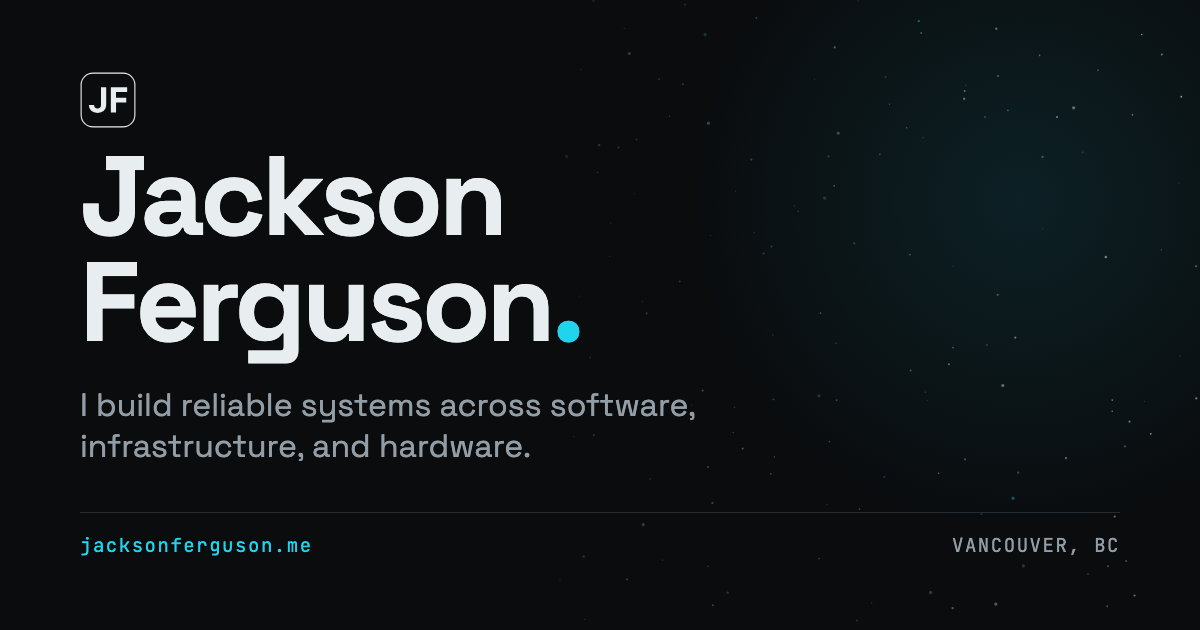
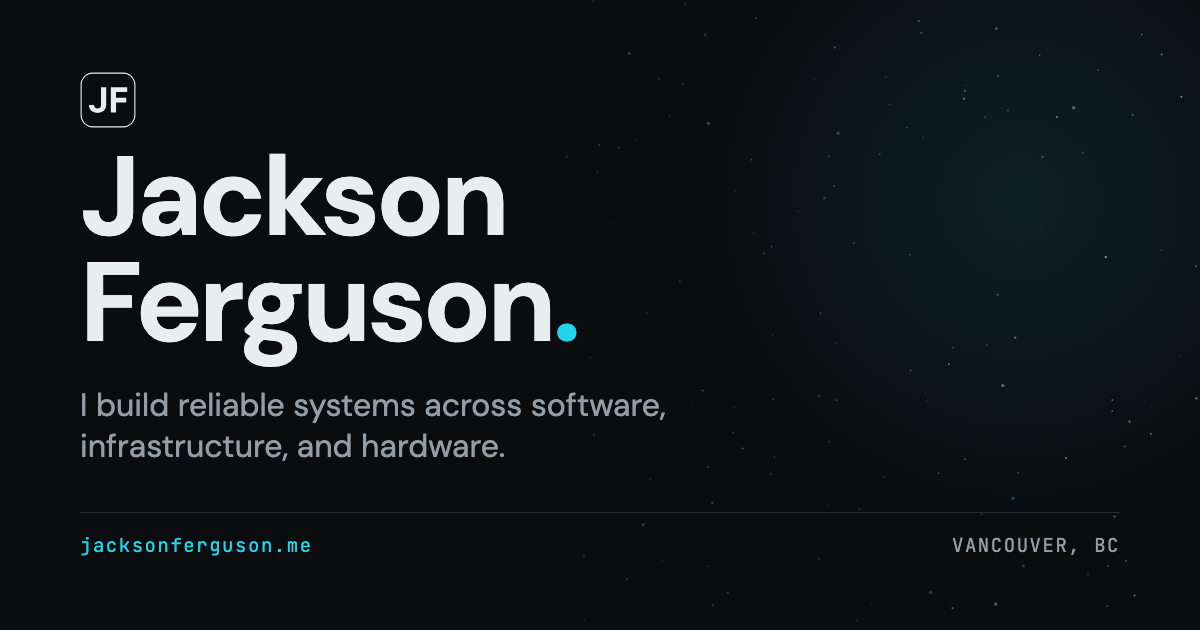
feat(site): refresh portfolio content and demo
Update the Protostar recording source, typography, and social card.

Refine trip labels, demo loading, and project chart loading.

diff --git a/src/styles/global.css b/src/styles/global.css
@@ -31,8 +31,8 @@
   --muted: #939da6;
   --accent: #22d3ee;
   --line: #252c31;
-  --sans: 'Space Grotesk', sans-serif;
-  --mono: 'JetBrains Mono', 'Symbols Nerd Font', monospace;
+  --sans: 'DM Sans', sans-serif;
+  --mono: 'JetBrains Mono', monospace;
   --serif: 'New Computer Modern', 'Georgia', serif;
   --md-default-fg-color: #81929b;
   --protostar-cyan: #22d3ee;

diff --git a/README.md b/README.md
@@ -16,12 +16,12 @@ The New Computer Modern regular and italic WOFF2 files in `public/fonts/` are La
 
 [config/remote-assets.json](config/remote-assets.json) is the central manifest for assets sourced from other project repositories. [scripts/fetch-remote-assets.mjs](scripts/fetch-remote-assets.mjs) downloads and validates them, then writes the copies into `public/` for Astro to include in the static site. These generated copies are git-ignored; this repository tracks the fetching process rather than snapshots that can go stale.
 
-| Asset ID                             | Source project                                                                         | Local target                                  | Validation                           |
-| ------------------------------------ | -------------------------------------------------------------------------------------- | --------------------------------------------- | ------------------------------------ |
-| `protostar-demo`                     | [Protostar](https://github.com/JacksonFergusonDev/protostar)                           | `public/protostar-demo.cast`                  | Asciinema v2 header and minimum size |
-| `protostar-icon`                     | [Protostar](https://github.com/JacksonFergusonDev/protostar)                           | `public/images/protostar.svg`                 | SVG markup and minimum size          |
-| `systems-audio-analysis`             | [Systems Audio Lab](https://github.com/JacksonFergusonDev/systems-audio-lab)           | `public/images/audio-analysis.svg`            | SVG markup and minimum size          |
-| `data-science-redshift-distribution` | [Data Science Portfolio](https://github.com/JacksonFergusonDev/data-science-portfolio) | `public/images/gmm-redshift-distribution.svg` | SVG markup and minimum size          |
+| Asset ID                             | Source project                                                                                                                      | Local target                                  | Validation                           |
+| ------------------------------------ | ----------------------------------------------------------------------------------------------------------------------------------- | --------------------------------------------- | ------------------------------------ |
+| `protostar-demo`                     | [Protostar interactive init demo](https://github.com/JacksonFergusonDev/protostar/blob/main/docs/assets/demo_init_interactive.cast) | `public/protostar-demo.cast`                  | Asciinema v2 header and minimum size |
+| `protostar-icon`                     | [Protostar](https://github.com/JacksonFergusonDev/protostar)                                                                        | `public/images/protostar.svg`                 | SVG markup and minimum size          |
+| `systems-audio-analysis`             | [Systems Audio Lab](https://github.com/JacksonFergusonDev/systems-audio-lab)                                                        | `public/images/audio-analysis.svg`            | SVG markup and minimum size          |
+| `data-science-redshift-distribution` | [Data Science Portfolio](https://github.com/JacksonFergusonDev/data-science-portfolio)                                              | `public/images/gmm-redshift-distribution.svg` | SVG markup and minimum size          |
 
 ### Why fetch at build time?
 

diff --git a/src/content/trips/semaphore-2024.md b/src/content/trips/semaphore-2024.md
@@ -4,10 +4,10 @@ title: 'Semaphore & the Sea to Sky'
 description: 'Granite walls, alpine trails, sudden snowstorms, and long days in the Sea to Sky.'
 date: 2024-08-26
 dateLabel: '2024'
-location: 'Coast Mountains, British Columbia'
+location: 'Semaphore Lakes, British Columbia'
 images:
   - src: ../../assets/trips/semaphore-2024/IMG_3562.jpg
-    alt: 'Coast Mountains alpine basin'
+    alt: 'Semaphore Lakes alpine basin'
   - src: ../../assets/trips/semaphore-2024/1.jpg
     alt: 'Snow-dusted mountains reflected in an alpine lake'
   - src: ../../assets/trips/semaphore-2024/2.jpg
@@ -17,37 +17,37 @@ images:
   - src: ../../assets/trips/semaphore-2024/4.jpg
     alt: 'A still tarn surrounded by conifers and low cloud'
   - src: ../../assets/trips/semaphore-2024/20240825_121115.jpg
-    alt: 'Coast Mountains alpine basin (6)'
+    alt: 'Semaphore Lakes alpine basin (6)'
   - src: ../../assets/trips/semaphore-2024/20240825_123832.jpg
-    alt: 'Coast Mountains alpine basin (7)'
+    alt: 'Semaphore Lakes alpine basin (7)'
   - src: ../../assets/trips/semaphore-2024/IMG_1503.jpg
-    alt: 'Coast Mountains alpine basin (8)'
+    alt: 'Semaphore Lakes alpine basin (8)'
   - src: ../../assets/trips/semaphore-2024/IMG_1567.jpg
-    alt: 'Coast Mountains alpine basin (9)'
+    alt: 'Semaphore Lakes alpine basin (9)'
   - src: ../../assets/trips/semaphore-2024/IMG_1595.jpg
-    alt: 'Coast Mountains alpine basin (10)'
+    alt: 'Semaphore Lakes alpine basin (10)'
   - src: ../../assets/trips/semaphore-2024/IMG_2755.jpg
-    alt: 'Coast Mountains alpine basin (11)'
+    alt: 'Semaphore Lakes alpine basin (11)'
   - src: ../../assets/trips/semaphore-2024/IMG_2918.jpg
-    alt: 'Coast Mountains alpine basin (12)'
+    alt: 'Semaphore Lakes alpine basin (12)'
   - src: ../../assets/trips/semaphore-2024/IMG_3032.jpg
-    alt: 'Coast Mountains alpine basin (13)'
+    alt: 'Semaphore Lakes alpine basin (13)'
   - src: ../../assets/trips/semaphore-2024/IMG_3187.jpg
-    alt: 'Coast Mountains alpine basin (14)'
+    alt: 'Semaphore Lakes alpine basin (14)'
   - src: ../../assets/trips/semaphore-2024/IMG_3190.jpg
-    alt: 'Coast Mountains alpine basin (15)'
+    alt: 'Semaphore Lakes alpine basin (15)'
   - src: ../../assets/trips/semaphore-2024/IMG_4238.jpg
-    alt: 'Coast Mountains alpine basin (16)'
+    alt: 'Semaphore Lakes alpine basin (16)'
   - src: ../../assets/trips/semaphore-2024/IMG_4196.jpg
-    alt: 'Coast Mountains alpine basin (17)'
+    alt: 'Semaphore Lakes alpine basin (17)'
   - src: ../../assets/trips/semaphore-2024/IMG_3259.jpg
-    alt: 'Coast Mountains alpine basin (18)'
+    alt: 'Semaphore Lakes alpine basin (18)'
   - src: ../../assets/trips/semaphore-2024/IMG_3303.jpg
-    alt: 'Coast Mountains alpine basin (19)'
+    alt: 'Semaphore Lakes alpine basin (19)'
   - src: ../../assets/trips/semaphore-2024/IMG_3306-Pano.jpg
-    alt: 'Coast Mountains alpine basin (20)'
+    alt: 'Semaphore Lakes alpine basin (20)'
   - src: ../../assets/trips/semaphore-2024/IMG_3254.jpg
-    alt: 'Coast Mountains alpine basin (21)'
+    alt: 'Semaphore Lakes alpine basin (21)'
   - src: ../../assets/trips/semaphore-2024/IMG_3250.jpg
-    alt: 'Coast Mountains alpine basin (22)'
+    alt: 'Semaphore Lakes alpine basin (22)'
 ---

diff --git a/src/content/trips/semaphore-2026.md b/src/content/trips/semaphore-2026.md
@@ -4,7 +4,7 @@ title: 'Semaphore, take two'
 description: 'Back among the granite, alpine lakes, and long views of Semaphore.'
 date: 2026-09-07
 dateLabel: 'September 2026'
-location: 'Coast Mountains, British Columbia'
+location: 'Semaphore Lakes, British Columbia'
 images:
   - src: ../../assets/trips/semaphore-2026/1.jpg
     alt: 'A blue alpine lake enclosed by rounded granite ridges'
